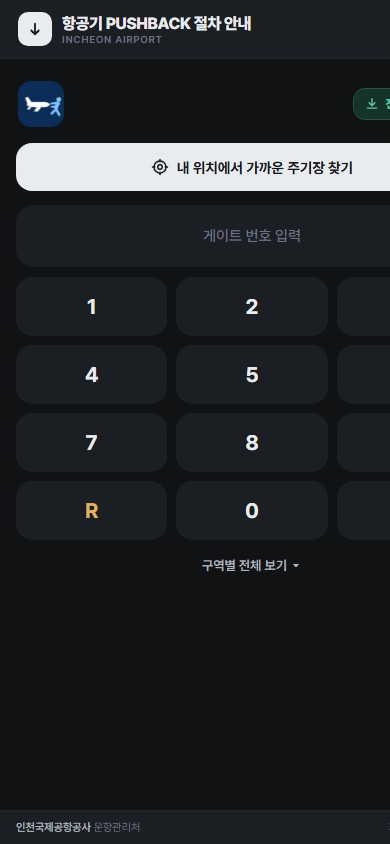
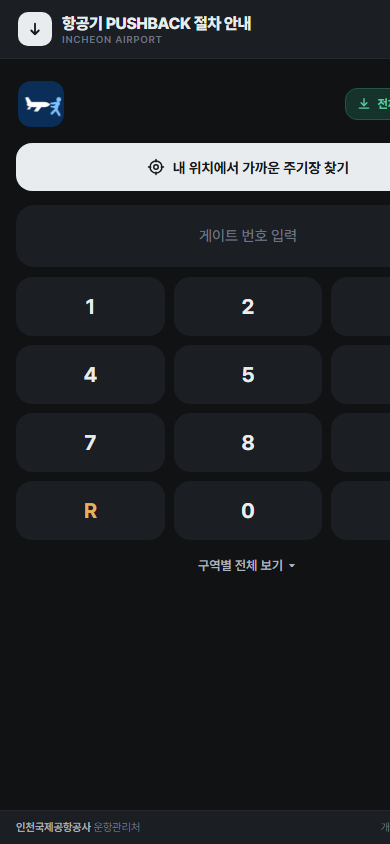
촬영 하니스: 라이트박스 대기 조건 개선 · 오류 설정 Continue
Claude-Session: https://claude.ai/code/session_01U1K3qEAETjPj7A4BjZvJXT

diff --git a/tools/review/shot.html b/tools/review/shot.html
@@ -11,11 +11,31 @@ const theme=q.get("theme")||"light", view=q.get("view")||"home", gate=q.get("gat
 try{ localStorage.setItem("theme",theme); localStorage.removeItem("pbView"); }catch(e){}
 const f=document.getElementById("f");
 f.src="/index.html"+(view==="home"?"":"#gate="+gate);
+function poll(check,onReady,timeoutMs){
+  const start=Date.now();
+  const t=setInterval(()=>{
+    let ok=false;
+    try{ ok=check(); }catch(e){}
+    if(ok || Date.now()-start>timeoutMs){ clearInterval(t); onReady(); }
+  },100);
+}
+
 f.addEventListener("load",()=>{
   const w=f.contentWindow;
   if(view==="lightbox"){
-    setTimeout(()=>{ const box=w.document.querySelector(".dwgBox img, .animWrap img");
-      if(box) w.openDwg(box.getAttribute("src")); },1500);
+    poll(
+      ()=>{ const box=w.document.querySelector(".dwgBox img, .animWrap img"); return !!(box && box.complete); },
+      ()=>{
+        const box=w.document.querySelector(".dwgBox img, .animWrap img");
+        if(box) w.openDwg(box.getAttribute("src"));
+        poll(
+          ()=>{ const img=w.document.querySelector(".lightbox img"); return !!(img && img.complete); },
+          ()=>{},
+          8000
+        );
+      },
+      8000
+    );
   }
 });
 </script>
